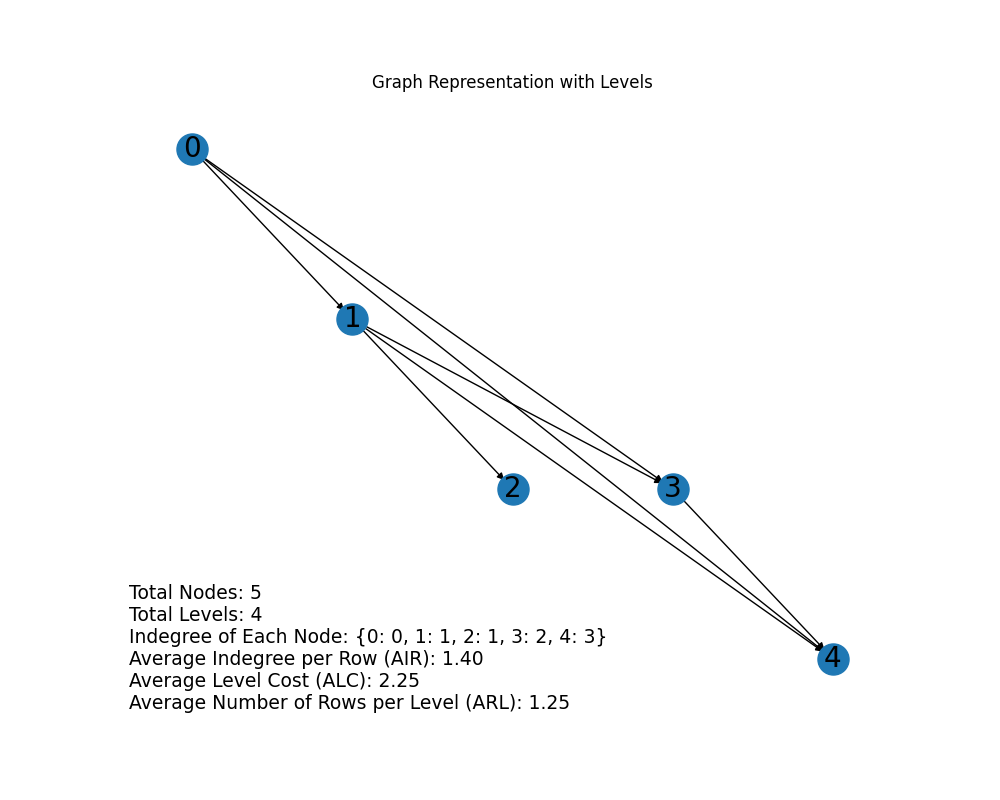
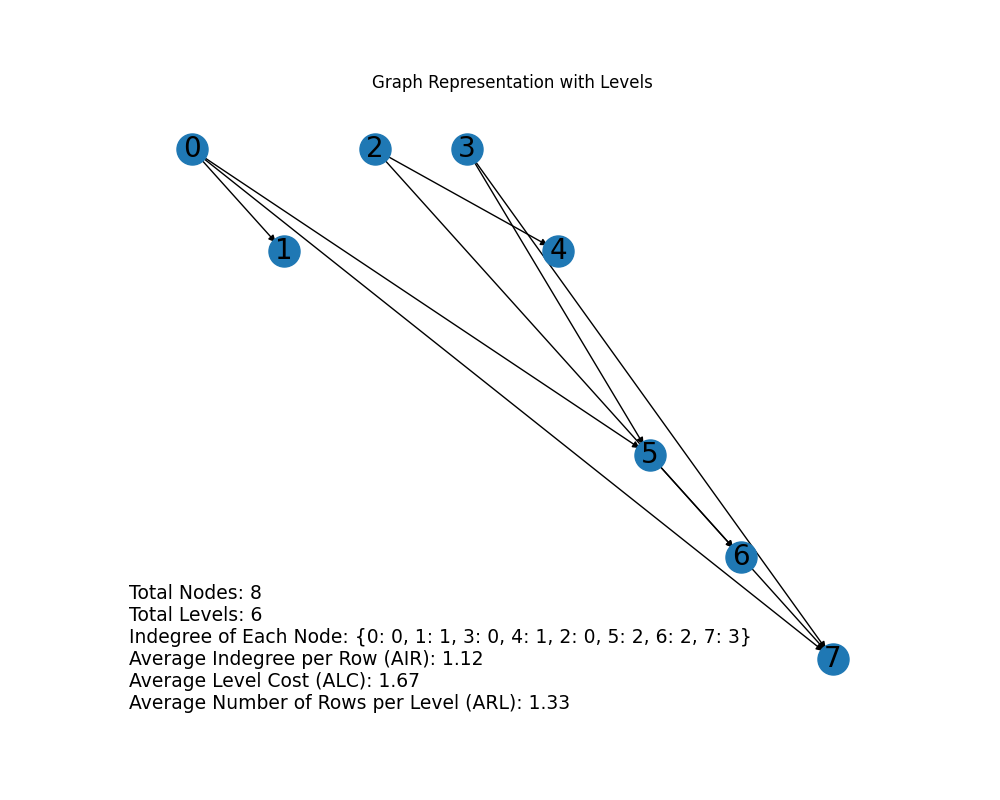
ALC fine tuning tracker is up Nodes mare moved correctly

diff --git a/environment.py b/environment.py
@@ -3,6 +3,7 @@ import networkx as nx
 import matplotlib.pyplot as plt
 
 class Environment:
+    
     def __init__(self, matrix):
         if not self.is_lower_triangular(matrix):
             raise ValueError("Matrix must be lower triangular")
@@ -24,6 +25,7 @@ class Environment:
 
     def convert_matrix_to_graph(self):
         """ Convert the matrix to a graph and calculate levels. """
+        """ Logical Equavilant of Lx=b """
         for x in range(self.matrix.shape[0]):
             self.G.add_node(x)
             node_has_edge = False
@@ -53,10 +55,11 @@ class Environment:
         self.ARL = self.total_nodes / self.total_levels if self.total_levels else 0
 
     
-    def draw_graph(self, info_text=""):
+    def draw_graph(self, info_text="",name=""):
         """ Draw the graph with additional information text. """
+        info_text=self.generate_info_text()
         pos = {node: (node, -level) for node, level in self.levels.items()}
-        plt.figure(figsize=(10, 8))  # Adjusted figure size for extra text space
+        plt.figure(figsize=(10, 8)) 
         nx.draw_networkx_nodes(self.G, pos, node_size=500)
         nx.draw_networkx_edges(self.G, pos, edgelist=self.G.edges(), edge_color='black', arrows=True)
         nx.draw_networkx_labels(self.G, pos, font_size=20, font_family="sans-serif")
@@ -68,26 +71,106 @@ class Environment:
         plt.savefig("graph.png")
         plt.show()
 
+    def optimize_graph_levels(self):
+        """ Optimizes graph levels for all nodes. """
+        nodes_moved = True
+        while nodes_moved:  # Keep trying to move nodes until no more moves are possible
+            nodes_moved = False
+            for node in list(self.G.nodes):  # Iterate over a static list of nodes
+                original_level = self.levels[node]
+                self.move_node_to_higher_level(node)
+                if self.levels[node] < original_level:
+                    nodes_moved = True
 
-""" We may consider to use random generated lower triangular matrix """
+    def move_node_to_higher_level(self, node):
+        """ Move a node to a higher level if it reduces or maintains the ALC. 
+            If the node moves to a level of its parent, break the edge and reassign grandparents as new parents. """
+            
+        if node not in self.G.nodes():
+            print(f"Node {node} does not exist in the graph.")
+            return
+
+        current_alc = self.calculate_alc()
+        original_level = self.levels[node]
+        moved = False
+
+        while True:
+            new_level = self.levels[node] - 1
+            if new_level < 0:  # Node cannot go below level 0
+                break
+
+            # Temporarily move node to the new level
+            self.levels[node] = new_level
+
+            # Remove edges from parents that are now on the same level, and connect to grandparents
+            parents_at_new_level = [parent for parent in self.G.predecessors(node) if self.levels[parent] == new_level]
+            for parent in parents_at_new_level:
+                self.G.remove_edge(parent, node)
+                grandparents = list(self.G.predecessors(parent))
+                for grandparent in grandparents:
+                    self.G.add_edge(grandparent, node)
+
+            # Check if ALC is maintained or improved
+            new_alc = self.calculate_alc()
+            if new_alc <= current_alc:
+                current_alc = new_alc  # Update current ALC 
+                moved = True
+            else:
+                # Revert the changes
+                self.levels[node] = new_level + 1
+                for parent in parents_at_new_level:
+                    self.G.add_edge(parent, node)
+                    grandparents = list(self.G.predecessors(parent))
+                    for grandparent in grandparents:
+                        self.G.remove_edge(grandparent, node)
+                break
+
+        if moved:
+            print(new_alc)
+            self.draw_graph(info_text=self.generate_info_text())
+        else:
+            print(f"Node {node} did not improve ALC. It remains at level {original_level}.")
+
+    def calculate_alc(self):
+        """ Recalculate the Average Level Cost (ALC) after a node is moved. """
+        alc_numerator = sum(2 * self.indegree_dict[node] - 1 for node in self.G.nodes())
+        alc_denominator = max(self.levels.values()) + 1  
+        return alc_numerator / alc_denominator if alc_denominator else 0
+
+    def generate_info_text(self):
+        """ Generate information text about the graph metrics. """
+        return (
+            f"Total Nodes: {self.total_nodes}\n"
+            f"Total Levels: {max(self.levels.values()) + 1}\n"
+            f"Indegree of Each Node: {self.indegree_dict}\n"
+            f"Average Indegree per Row (AIR): {self.AIR:.2f}\n"
+            f"Average Level Cost (ALC): {self.calculate_alc():.2f}\n"
+            f"Average Number of Rows per Level (ARL): {self.total_nodes / (max(self.levels.values()) + 1):.2f}"
+        )
+
+
+""" will be our main source, sparse.tamu.edu """
 matrix = np.array([
-    [1, 0, 0, 0, 0],
-    [1, 1, 0, 0, 0],
-    [0, 1, 1, 0, 0],
-    [1, 1, 0, 1, 0],
-    [1, 1, 0, 1, 1]
+    [1, 0, 0, 0, 0, 0, 0, 0],
+    [1, 1, 0, 0, 0, 0, 0, 0],
+    [0, 0, 1, 0, 0, 0, 0, 0],
+    [0, 1, 0, 1, 0, 0, 0, 0],
+    [0, 0, 1, 0, 1, 0, 0, 0],
+    [1, 0, 0, 1, 0, 1, 0, 0],
+    [0, 0, 1, 0, 0, 1, 1, 0],
+    [1, 0, 0, 1, 0, 0, 1, 1],
+
 ])
 
+
 env = Environment(matrix)
+env.draw_graph()
+# For testing purposes, The node # given as parameter
+node_to_move = 3
+env.move_node_to_higher_level(node_to_move)
+env.calculate_graph_metrics()
+updated_info_text = env.generate_info_text()
+env.draw_graph(info_text=updated_info_text)
 
-info_text_ = (
-    f"Total Nodes: {env.total_nodes}\n"
-    f"Total Levels: {env.total_levels}\n"
-    f"Indegree of Each Node: {env.indegree_dict}\n"
-    f"Average Indegree per Row (AIR): {env.AIR:.2f}\n"
-    f"Average Level Cost (ALC): {env.ALC:.2f}\n"
-    f"Average Number of Rows per Level (ARL): {env.ARL:.2f}"
-)
 
-# Call the draw_graph method with the information text
-env.draw_graph(info_text=info_text_)
+
